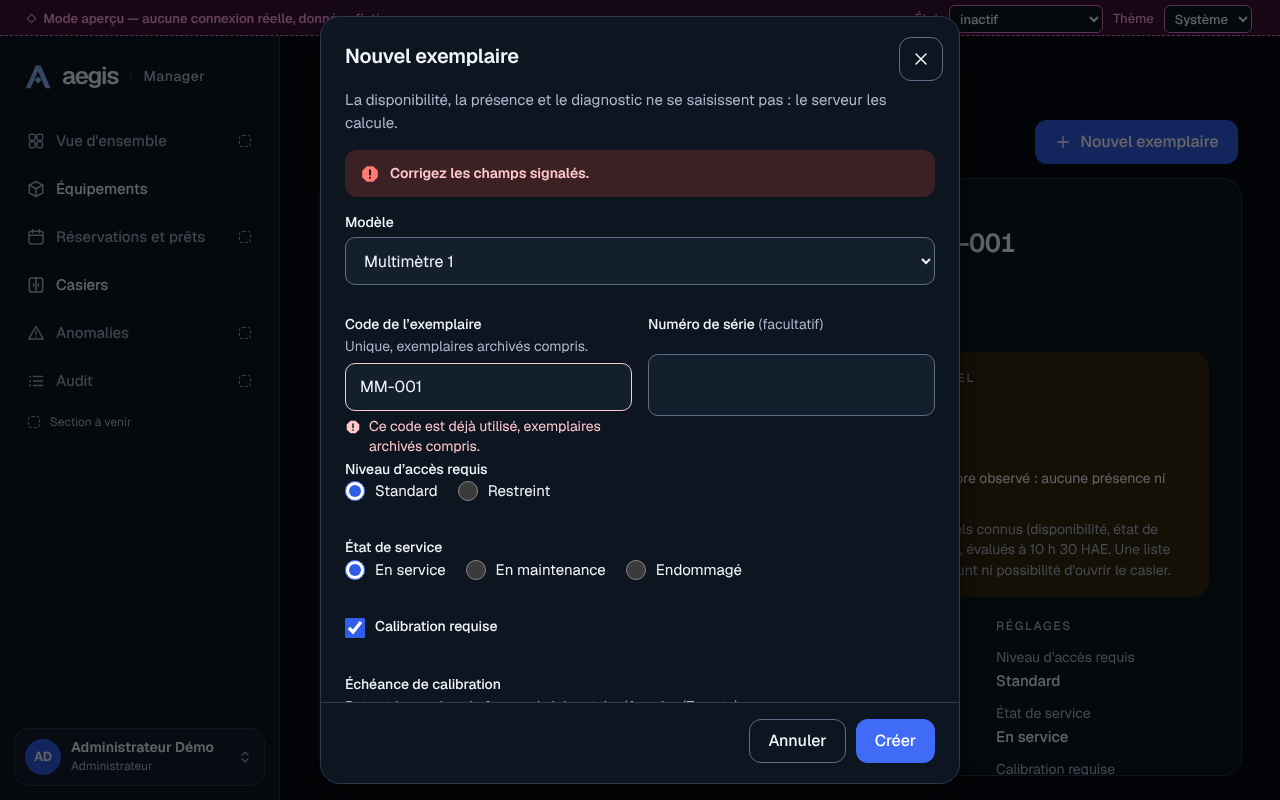
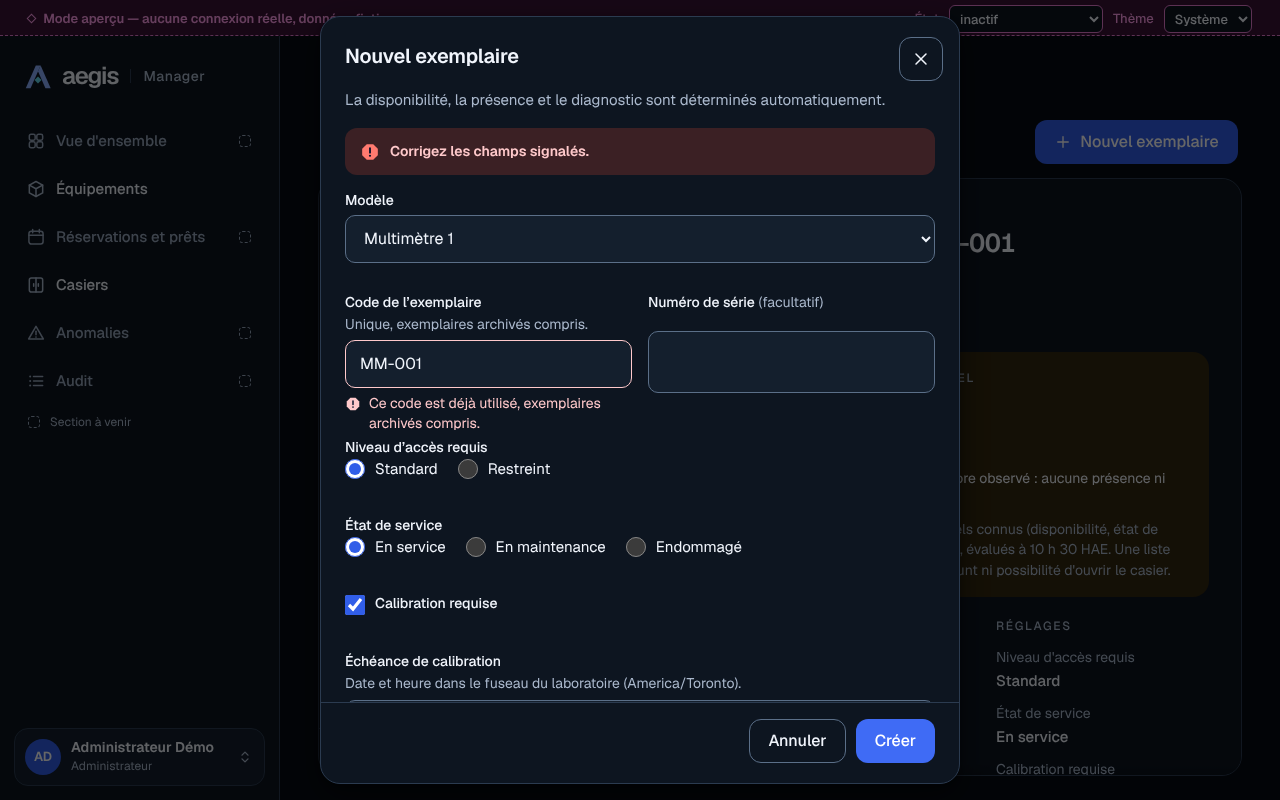
fix(web): apply the approved Manager form copy corrections
Saving a placement now reads as an expected placement, not a physical
move; identifier help matches 09 (case kept, ends trimmed); placement and
schedule descriptions no longer expose server internals. The design
handoff records Philippe's approval of the six presentation points, and
the affected review captures are regenerated.

Refs #26

Claude-Session: https://claude.ai/code/session_01FBFqZHwVWZKRaVqShr5dzZ

diff --git a/apps/admin-web/src/i18n/messages/fr.ts b/apps/admin-web/src/i18n/messages/fr.ts
@@ -390,7 +390,7 @@ export const fr = {
   schedule: {
     edit: "Modifier l’horaire",
     title: ({ code }: { code: string }) => `Horaire d’exploitation du casier ${code}`,
-    description: 'Les heures sont locales au fuseau du casier. Le serveur enregistre une nouvelle version et calcule la fenêtre en cours.',
+    description: 'Définissez les heures d’ouverture dans le fuseau horaire du casier.',
     loading: 'Chargement de l’horaire…',
     loadErrorTitle: 'L’horaire n’a pas pu être lu.',
     loadErrorBody: 'Réessayez. Rien n’a été modifié.',
@@ -445,7 +445,7 @@ export const fr = {
     assignDescription: `Un exemplaire porte au plus un identifiant actif par type${NBSP}: en attribuer un nouveau révoque l’ancien. L’historique est conservé.`,
     fieldType: 'Type',
     fieldValue: 'Valeur',
-    fieldValueHelp: 'Telle que lue par le lecteur, sans transformation. 255 caractères au maximum.',
+    fieldValueHelp: 'Respectez la casse de la valeur lue. Les espaces au début et à la fin sont retirés. 255 caractères au maximum.',
     assigned: ({ code }: { code: string }) => `Identifiant attribué à ${code}.`,
     revokeTitle: ({ type, value }: { type: string; value: string }) => `Révoquer l’identifiant ${type} ${value}${NBSP}?`,
     revokeBody: 'Il ne sera plus reconnu pour cet exemplaire. Son historique est conservé et la valeur pourra être attribuée de nouveau.',
@@ -455,7 +455,7 @@ export const fr = {
     placementTitle: 'Placement attendu',
     changePlacement: 'Modifier le placement',
     placementDialogTitle: ({ code }: { code: string }) => `Placement de ${code}`,
-    placementDescription: `L’occupation affichée est celle de la lecture${NBSP}: le serveur vérifie la cellule au moment de l’enregistrement.`,
+    placementDescription: 'L’occupation peut avoir changé depuis l’affichage. La disponibilité de la cellule sera vérifiée à l’enregistrement.',
     fieldLocker: 'Casier',
     chooseLocker: 'Choisir un casier',
     fieldCompartment: 'Cellule',
@@ -469,7 +469,7 @@ export const fr = {
     lockersLoading: 'Chargement des casiers…',
     lockersUnavailable: 'Les casiers n’ont pas pu être lus. Fermez, puis réessayez.',
     noLocker: 'Aucun casier n’est configuré.',
-    placed: ({ code, locker, compartment }: { code: string; locker: string; compartment: string }) => `${code} placé dans ${locker} · ${compartment}.`,
+    placed: ({ code, locker, compartment }: { code: string; locker: string; compartment: string }) => `Placement attendu de ${code} enregistré${NBSP}: ${locker} · ${compartment}.`,
     violation: {
       compartmentNotFound: 'Cette cellule n’existe plus. Choisissez-en une autre.',
     },
@@ -493,7 +493,7 @@ export const fr = {
 
     createAssetTitle: 'Nouvel exemplaire',
     editAssetTitle: ({ code }: { code: string }) => `Modifier l’exemplaire ${code}`,
-    assetFormDescription: `La disponibilité, la présence et le diagnostic ne se saisissent pas${NBSP}: le serveur les calcule.`,
+    assetFormDescription: 'La disponibilité, la présence et le diagnostic sont déterminés automatiquement.',
     createModelTitle: 'Nouveau modèle',
     editModelTitle: ({ name }: { name: string }) => `Modifier le modèle ${name}`,
     archiveAssetTitle: ({ code }: { code: string }) => `Archiver l’exemplaire ${code}${NBSP}?`,

diff --git a/apps/admin-web/src/i18n/messages/en.ts b/apps/admin-web/src/i18n/messages/en.ts
@@ -337,7 +337,7 @@ export const en: Messages = {
   schedule: {
     edit: 'Edit schedule',
     title: ({ code }: { code: string }) => `Operating schedule of locker ${code}`,
-    description: "Times are local to the locker's time zone. The server records a new version and computes the current window.",
+    description: 'Set opening hours in the locker’s time zone.',
     loading: 'Loading the schedule…',
     loadErrorTitle: 'The schedule could not be read.',
     loadErrorBody: 'Try again. Nothing was changed.',
@@ -391,7 +391,7 @@ export const en: Messages = {
     assignDescription: 'A unit holds at most one active identifier per type: assigning a new one revokes the old one. History is kept.',
     fieldType: 'Type',
     fieldValue: 'Value',
-    fieldValueHelp: 'As the reader reads it, unchanged. 255 characters at most.',
+    fieldValueHelp: 'Preserve the case of the scanned value. Leading and trailing spaces are removed. Maximum 255 characters.',
     assigned: ({ code }: { code: string }) => `Identifier assigned to ${code}.`,
     revokeTitle: ({ type, value }: { type: string; value: string }) => `Revoke identifier ${type} ${value}?`,
     revokeBody: 'It will no longer be recognized for this unit. Its history is kept and the value can be assigned again.',
@@ -401,7 +401,7 @@ export const en: Messages = {
     placementTitle: 'Expected placement',
     changePlacement: 'Change placement',
     placementDialogTitle: ({ code }: { code: string }) => `Placement of ${code}`,
-    placementDescription: 'Occupancy is as read: the server checks the compartment when saving.',
+    placementDescription: 'Occupancy may have changed since this view loaded. Compartment availability will be checked when you save.',
     fieldLocker: 'Locker',
     chooseLocker: 'Choose a locker',
     fieldCompartment: 'Compartment',
@@ -415,7 +415,7 @@ export const en: Messages = {
     lockersLoading: 'Loading lockers…',
     lockersUnavailable: 'The lockers could not be read. Close, then try again.',
     noLocker: 'No locker is configured.',
-    placed: ({ code, locker, compartment }: { code: string; locker: string; compartment: string }) => `${code} placed in ${locker} · ${compartment}.`,
+    placed: ({ code, locker, compartment }: { code: string; locker: string; compartment: string }) => `Expected placement for ${code} saved: ${locker} · ${compartment}.`,
     violation: {
       compartmentNotFound: 'This compartment no longer exists. Choose another one.',
     },
@@ -438,7 +438,7 @@ export const en: Messages = {
 
     createAssetTitle: 'New unit',
     editAssetTitle: ({ code }: { code: string }) => `Edit unit ${code}`,
-    assetFormDescription: 'Availability, presence and the diagnostic are not entered: the server computes them.',
+    assetFormDescription: 'Availability, presence and readiness are determined automatically.',
     createModelTitle: 'New model',
     editModelTitle: ({ name }: { name: string }) => `Edit model ${name}`,
     archiveAssetTitle: ({ code }: { code: string }) => `Archive unit ${code}?`,

diff --git a/apps/admin-web/src/pages/EquipmentPage.custody.test.tsx b/apps/admin-web/src/pages/EquipmentPage.custody.test.tsx
@@ -176,7 +176,7 @@ describe('Équipements — placement (CAT-02 #26)', () => {
     expect(gateway.setPlacement).toHaveBeenCalledWith('token-value', PLACED.id, { compartmentId: A2_ID, reason: 'Rotation' })
     expect(gateway.setPlacement.mock.calls[0]).toHaveLength(3)
     await waitFor(() => expect(catalogGateway.getAsset.mock.calls.length + catalogGateway.listAssets.mock.calls.length).toBeGreaterThan(reads))
-    expect(await screen.findByText('MM-001 placé dans AEGIS-DEMO-01 · A2.')).toBeDefined()
+    expect(await screen.findByText('Placement attendu de MM-001 enregistré : AEGIS-DEMO-01 · A2.')).toBeDefined()
     expect(document.activeElement).toBe(screen.getByRole('button', { name: 'Modifier le placement' }))
   })
 

diff --git a/docs/design/manager-forms/README.md b/docs/design/manager-forms/README.md
@@ -1,8 +1,10 @@
-# Formulaires du Manager — proposition (CAT-01 #25)
+# Formulaires du Manager (CAT-01 #25, CFG-02 #28, #26)
 
-> **Statut : proposition, non validée.** Aucune maquette de formulaire n'est
-> approuvée. Ce lot de rendus sert à la validation visuelle de Philippe; il ne
-> remplace pas une décision du `ui-ux-designer`.
+> **Statut : direction approuvée pour P0 par Philippe le 6 novembre 2026**
+> ([décision sur #25](https://github.com/PhilJordan18/aegis/issues/25#issuecomment-6689754663)).
+> Il s'agit d'une acceptation visuelle humaine de la direction et des six points
+> ci-dessous, avec les corrections de textes listées; elle n'approuve pas les
+> autres textes [P] du produit.
 
 ## Ce qui est repris d'éléments approuvés
 
@@ -39,14 +41,39 @@ conflit de cellule, chacun en 1280 px et
 320 px, clair et sombre. Les mêmes états passent axe WCAG 2.x A/AA, le clavier
 et l'absence de défilement horizontal (`npm run test:forms`).
 
-## Décisions attendues
+## Décisions (approuvées le 6 novembre 2026)
 
-1. Dialogue modal plutôt que page ou panneau latéral pour créer et modifier.
-2. Radios pour le niveau d'accès et l'état de service, plutôt que des listes.
-3. Emplacement des commandes : en-tête de page pour créer, dossier ou ligne
-   pour modifier et archiver.
-4. Textes [P] des catalogues `catalogEdit`, `schedule` et `custody`.
-5. Horaire : sept groupes empilés plutôt qu’une grille jours × heures, et un
-   seul créneau par jour, comme le contrat (09 §13).
-6. Garde : section dans le dossier plutôt qu’un onglet, et occupation des
-   cellules affichée dans la liste sans en interdire le choix.
+1. **Dialogue modal : approuvé.** `<dialog>` natif, 640/480 px, corps
+   défilant, nom accessible, focus contenu puis rendu à l'ouvreur; « Annuler »
+   toujours disponible, erreurs associées aux champs.
+2. **Radios : approuvées** pour les petits ensembles finis (niveau d'accès,
+   état de service), en groupes étiquetés avec texte visible. Aucun état inventé.
+3. **Emplacement des commandes : approuvé.** Créer dans l'en-tête de page;
+   modifier et archiver dans le dossier ou la ligne du modèle. Archiver et
+   révoquer restent des actions secondaires nommées, avec leur conséquence et
+   le focus initial sur « Annuler ».
+4. **Textes FR/EN : catalogues `catalogEdit`, `schedule` et `custody` acceptés**
+   avec ces corrections, appliquées :
+   - `custody.placed` : « Placement attendu de ${code} enregistré : … » —
+     enregistrer un placement ne prouve ni le déplacement ni la présence;
+   - `custody.fieldValueHelp` : respecter la casse lue, espaces de début et de
+     fin retirés, 255 caractères (09); la valeur RFID n'est pas mise en
+     majuscules;
+   - `custody.placementDescription` : l'occupation a pu changer depuis
+     l'affichage, la disponibilité est vérifiée à l'enregistrement;
+   - `schedule.description` : « Définissez les heures d'ouverture dans le
+     fuseau horaire du casier. », sans détail de versionnage;
+   - `catalogEdit.assetFormDescription` : « La disponibilité, la présence et
+     le diagnostic sont déterminés automatiquement. »
+   Une panne réseau garde son message d'issue inconnue et la même clé
+   d'idempotence et le même corps à la reprise; « Rien n'a été modifié » est
+   réservé à un refus confirmé.
+5. **Horaire : approuvé.** Sept groupes de jours empilés, un créneau par jour
+   (09 §13); ni créneaux multiples, ni créneau de nuit. Fuseau IANA explicite;
+   horaire non configuré distinct d'un casier inconnu.
+6. **Garde : approuvée.** Sections dans le dossier après les réglages, sans
+   nouvel onglet. Cellules libre, actuelle, occupée et désactivée nommées en
+   clair; le choix reste possible car l'occupation affichée est un instantané,
+   l'API reste l'autorité et ses refus à l'écriture s'appliquent. Cela
+   n'autorise jamais à écraser un autre placement ni à utiliser une cellule
+   désactivée. Motif et historique des identifiants révoqués conservés.
